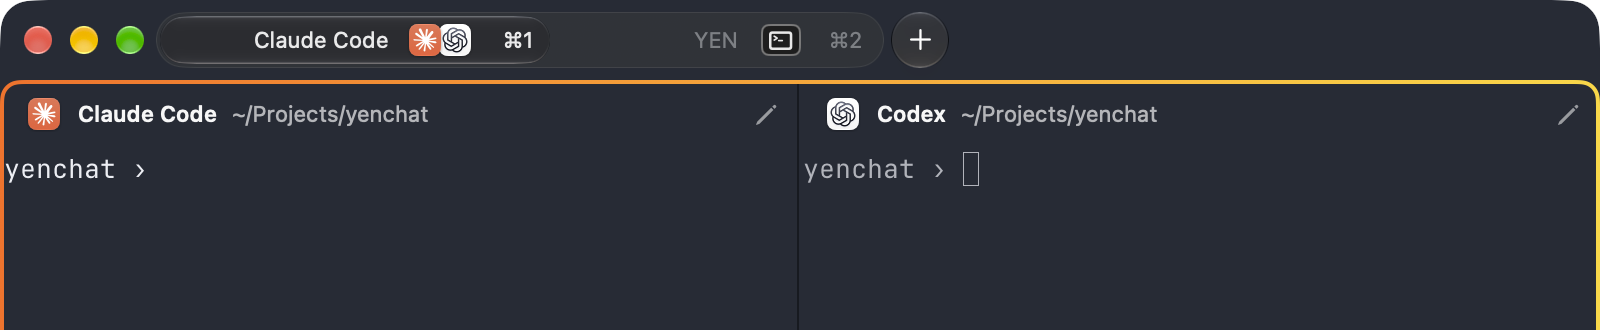
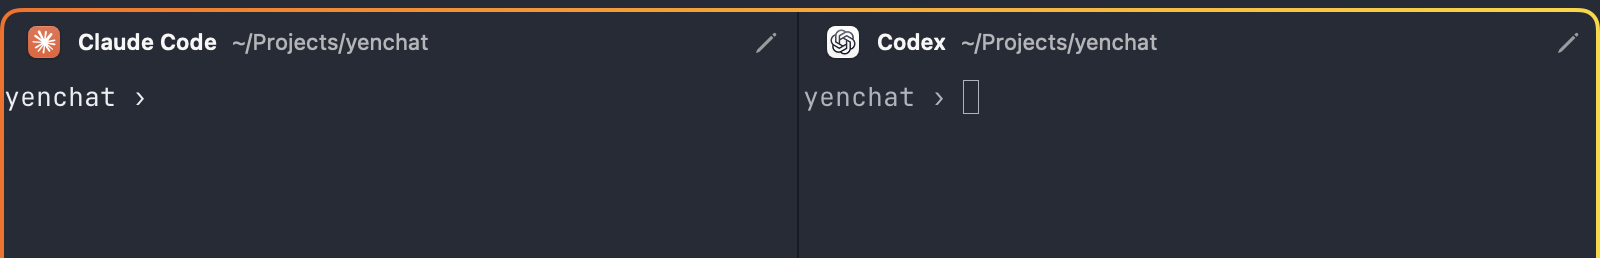
Lead horizontal tabs with the title and show the split count on the right
- Replace the stacked pane icons with a trailing split count, shown only when a tab has splits.
- Hide the Cmd + 1-9 labels until Command alone is held, then swap them in for the count.
- Mute the selected pill to a theme-tinted fill with a hairline edge and dim unselected titles.
- Update the manual, llms.txt and owner docs, and crop the old tab strip from the split-headers image.

diff --git a/yen-terminal/overlays/macos/Sources/Features/Terminal/WorkspaceTabAccessory.swift b/yen-terminal/overlays/macos/Sources/Features/Terminal/WorkspaceTabAccessory.swift
@@ -1,70 +1,94 @@
 import AppKit
+import Combine
 
 /// AppKit moves each window's accessory between tab buttons when a group changes.
-/// Keep the icon host with its window and let the native button own all input.
+/// The title leads the tab and the split count trails it. Holding Command swaps
+/// the count for the native tab shortcut. The native button owns all input.
 final class WorkspaceTabAccessory: NSStackView {
-    private var icons: PaneTabIconAccessory?
+    private var splitCount: PaneTabIconAccessory?
     private weak var tabWindow: NSWindow?
+    private weak var alignedTitle: NSStackView?
     private var leadingInset: NSLayoutConstraint?
     private let selection = WorkspaceTabHighlight()
     private weak var observedGroup: NSWindowTabGroup?
     private var selectionObservation: NSKeyValueObservation?
+    private var revealObservation: AnyCancellable?
+    private var isNarrow = false
+    private var isRevealed = false
 
-    func install(_ icons: PaneTabIconAccessory, for window: NSWindow) {
-        selection.onWidthChange = { [weak icons] width in
-            // At the native minimum tab width, give the title the icon's space.
-            icons?.isHidden = width > 0 && width < 150
+    /// The engine's key-equivalent label, the only text field in this stack.
+    private var shortcutLabel: NSTextField? {
+        arrangedSubviews.lazy.compactMap { $0 as? NSTextField }.first
+    }
+
+    func install(_ splitCount: PaneTabIconAccessory, for window: NSWindow) {
+        selection.onWidthChange = { [weak self] width in
+            // At the native minimum tab width, give the title the count's space.
+            self?.isNarrow = width > 0 && width < 150
+            self?.updateTrailingContent()
         }
-        self.icons = icons
+        self.splitCount = splitCount
         tabWindow = window
-        placeIcons()
+        if splitCount.superview !== self {
+            splitCount.removeFromSuperview()
+            let index = shortcutLabel.flatMap { arrangedSubviews.firstIndex(of: $0) } ?? arrangedSubviews.count
+            insertArrangedSubview(splitCount, at: index)
+        }
+        revealObservation = TabShortcutReveal.shared.$isRevealed
+            .removeDuplicates()
+            // `@Published` emits before it stores, so use the emitted value.
+            .sink { [weak self] revealed in
+                self?.isRevealed = revealed
+                self?.updateTrailingContent()
+            }
+        alignTitle()
     }
 
     override func viewDidMoveToWindow() {
         super.viewDidMoveToWindow()
-        placeIcons()
+        alignTitle()
     }
 
     override func layout() {
         super.layout()
-        placeIcons()
+        alignTitle()
     }
 
-    private func placeIcons() {
-        guard let icons else { return }
+    private func updateTrailingContent() {
+        if let shortcutLabel, shortcutLabel.isHidden == isRevealed { shortcutLabel.isHidden = !isRevealed }
+        let hidesCount = isRevealed || isNarrow
+        if let splitCount, splitCount.isHidden != hidesCount { splitCount.isHidden = hidesCount }
+    }
+
+    private func alignTitle() {
+        updateTrailingContent()
         let isTitlebar = tabWindow is TitlebarTabsTahoeTerminalWindow || tabWindow is TitlebarTabsVenturaTerminalWindow
         guard isTitlebar, let content = superview as? NSStackView,
               let title = content.views(in: .center).first as? NSStackView,
               title.identifier?.rawValue == "_titleContainerView" else {
-            // Other AppKit layouts keep the pane icons in the standard accessory.
-            if icons.superview !== self {
-                selection.removeFromSuperview()
-                selectionObservation = nil
-                observedGroup = nil
-                leadingInset?.isActive = false
-                icons.isHidden = false
-                icons.removeFromSuperview()
-                insertArrangedSubview(icons, at: 0)
-            }
+            // Other AppKit layouts keep their native title placement.
+            selection.removeFromSuperview()
+            selectionObservation = nil
+            observedGroup = nil
+            leadingInset?.isActive = false
+            alignedTitle = nil
             return
         }
 
         updateSelection(in: content)
-        guard !title.views(in: .center).contains(icons) else { return }
+        guard alignedTitle !== title || leadingInset?.isActive != true else { return }
         leadingInset?.isActive = false
-        icons.removeFromSuperview()
-        // Put the native close control beside the shortcut to free the leading margin.
+        // Put the native close control beside the trailing content to free the leading margin.
         if let close = content.views(in: .leading).first(where: { $0.identifier?.rawValue == "_closeButton" }) {
             content.removeView(close)
             content.insertView(close, at: 0, in: .trailing)
         }
-        title.insertView(icons, at: 0, in: .center)
-        title.setCustomSpacing(8, after: icons)
-        // Yield to truncation and native overflow in narrow windows.
+        // Lead with the title. Yield to truncation and native overflow in narrow windows.
         let inset = title.leadingAnchor.constraint(equalTo: content.leadingAnchor, constant: 12)
         inset.priority = .defaultHigh
         inset.isActive = true
         leadingInset = inset
+        alignedTitle = title
         updateTitleAppearance()
     }
 
@@ -94,12 +118,38 @@ final class WorkspaceTabAccessory: NSStackView {
         guard let tabWindow else { return }
         let selected = tabWindow.tabGroup?.selectedWindow === tabWindow
         selection.isHidden = !selected
-        guard let title = icons?.superview as? NSStackView, title !== self,
-              let label = title.views(in: .center).first(where: { $0 is NSTextField }) as? NSTextField else { return }
+        guard let label = alignedTitle?.views(in: .center).first(where: { $0 is NSTextField }) as? NSTextField else { return }
         let font = (tabWindow as? TerminalWindow)?.titlebarFont ?? NSFont.systemFont(ofSize: NSFont.systemFontSize, weight: .medium)
         if label.font != font { label.font = font }
-        let color = NSColor.labelColor
+        // The selected pill is muted, so the title weight of the focus comes from its text.
+        let color: NSColor = selected ? .labelColor : .secondaryLabelColor
         if label.textColor != color { label.textColor = color }
+    }
+}
+
+/// Command alone reveals every tab's shortcut; any other modifier or leaving the
+/// app hides them again, so a missed key-up cannot leave them on screen.
+@MainActor
+final class TabShortcutReveal: ObservableObject {
+    static let shared = TabShortcutReveal()
+
+    @Published private(set) var isRevealed = false
+
+    private var monitor: Any?
+    private var resignObservation: AnyCancellable?
+
+    private init() {
+        monitor = NSEvent.addLocalMonitorForEvents(matching: .flagsChanged) { event in
+            MainActor.assumeIsolated { TabShortcutReveal.shared.update(event.modifierFlags) }
+            return event
+        }
+        resignObservation = NotificationCenter.default.publisher(for: NSApplication.didResignActiveNotification)
+            .sink { _ in MainActor.assumeIsolated { TabShortcutReveal.shared.update([]) } }
+    }
+
+    func update(_ flags: NSEvent.ModifierFlags) {
+        let revealed = flags.intersection([.command, .shift, .option, .control, .function]) == .command
+        if isRevealed != revealed { isRevealed = revealed }
     }
 }
 
@@ -115,8 +165,14 @@ private final class WorkspaceTabHighlight: NSView {
     override func hitTest(_ point: NSPoint) -> NSView? { nil }
 
     override func draw(_ dirtyRect: NSRect) {
-        let shape = NSBezierPath(roundedRect: bounds, xRadius: bounds.height / 2, yRadius: bounds.height / 2)
-        NSColor.labelColor.withAlphaComponent(0.20).setFill()
+        // A low-contrast tint of the theme's own label color over the themed titlebar,
+        // with a hairline edge so the pill reads in light and dark themes alike.
+        let rect = bounds.insetBy(dx: 0.5, dy: 0.5)
+        let shape = NSBezierPath(roundedRect: rect, xRadius: rect.height / 2, yRadius: rect.height / 2)
+        NSColor.labelColor.withAlphaComponent(0.09).setFill()
         shape.fill()
+        NSColor.labelColor.withAlphaComponent(0.10).setStroke()
+        shape.lineWidth = 1
+        shape.stroke()
     }
 }

diff --git a/yen-terminal/overlays/macos/Tests/Terminal/TerminalChromeAppearanceTests.swift b/yen-terminal/overlays/macos/Tests/Terminal/TerminalChromeAppearanceTests.swift
@@ -67,7 +67,7 @@ struct TerminalChromeAppearanceTests {
     }
 
     @available(macOS 27, *)
-    @Test func horizontalTabKeepsItsPaneIconBeforeItsTitleWhenSelectionChanges() async throws {
+    @Test func horizontalTabLeadsWithItsTitleAndRevealsItsShortcutOnlyWithCommand() async throws {
         let groupID = UUID().uuidString
         let nib = try #require(NSNib(nibNamed: "TerminalTabsTitlebarTahoe", bundle: Bundle(for: TerminalWindow.self)))
         let windows = try ["Atlas", "Studio"].map { title in
@@ -80,16 +80,19 @@ struct TerminalChromeAppearanceTests {
             window.title = title
             return window
         }
-        defer { windows.forEach { $0.close() } }
-        let icons = try windows.map { window in
+        defer {
+            TabShortcutReveal.shared.update([])
+            windows.forEach { $0.close() }
+        }
+        let counts = try windows.map { window in
             let accessory = try #require(window.tab.accessoryView as? WorkspaceTabAccessory)
-            let host = PaneTabIconAccessory(rootView: PaneTabIcons(surfaces: []))
-            host.widthAnchor.constraint(equalToConstant: 20).isActive = true
-            host.heightAnchor.constraint(equalToConstant: 18).isActive = true
+            let host = PaneTabIconAccessory(rootView: PaneTabSplitCount(count: 2))
             accessory.install(host, for: window)
             return host
         }
         windows[0].addTabbedWindow(windows[1], ordered: .above)
+        windows[0].keyEquivalent = "⌘1"
+        windows[1].keyEquivalent = "⌘2"
         let group = try #require(windows[0].tabGroup)
         for selected in windows {
             group.selectedWindow = selected
@@ -105,13 +108,27 @@ struct TerminalChromeAppearanceTests {
             #expect(abs(track.midY - trafficLight.midY) <= 1, "Tab bar \(track) and close button \(trafficLight)")
             let labels = root.descendants(withClassName: "NSTextField").compactMap { $0 as? NSTextField }
             for (index, window) in windows.enumerated() {
-                let icon = icons[index]
+                let count = counts[index]
                 let title = try #require(labels.first { $0.stringValue == window.title && $0.firstSuperview(withClassName: "NSTabButton") != nil })
-                #expect(icon.window === title.window)
-                let iconFrame = icon.convert(icon.bounds, to: root)
+                let shortcut = try #require(labels.first { $0.stringValue.hasPrefix("⌘\(index + 1)") })
+                #expect(count.window === title.window)
+                #expect(!count.isHidden && shortcut.isHidden, "Tab \(window.title) shows its count, not its shortcut")
+                let countFrame = count.convert(count.bounds, to: root)
                 let titleFrame = title.convert(title.bounds, to: root)
-                #expect(iconFrame.maxX < titleFrame.minX, "Icon \(iconFrame), title \(titleFrame), hidden \(icon.isHidden), tab \(window.title)")
+                #expect(titleFrame.maxX < countFrame.minX, "Title \(titleFrame), count \(countFrame), tab \(window.title)")
+                #expect(title.textColor == (window === selected ? NSColor.labelColor : NSColor.secondaryLabelColor))
             }
+
+            TabShortcutReveal.shared.update(.command)
+            root.layoutSubtreeIfNeeded()
+            for (index, count) in counts.enumerated() {
+                let shortcut = try #require(labels.first { $0.stringValue.hasPrefix("⌘\(index + 1)") })
+                #expect(count.isHidden && !shortcut.isHidden, "Command swaps tab \(index + 1)'s count for its shortcut")
+            }
+            TabShortcutReveal.shared.update([.command, .shift])
+            #expect(!TabShortcutReveal.shared.isRevealed, "Another modifier hides the shortcuts")
+            TabShortcutReveal.shared.update([])
+            #expect(counts.allSatisfy { !$0.isHidden })
         }
     }
 

diff --git a/yen-terminal/overlays/macos/Sources/Features/Splits/PaneActivity.swift b/yen-terminal/overlays/macos/Sources/Features/Splits/PaneActivity.swift
@@ -112,50 +112,41 @@ struct PaneActivityIcon: View {
     }
 }
 
-struct PaneTabIcons: View {
-    private static let visibleLimit = 3
-    private let surfaces: [YEN.SurfaceView]
-    private let count: Int
-
-    init(surfaces: [YEN.SurfaceView]) {
-        count = surfaces.count
-        self.surfaces = Array(surfaces.prefix(Self.visibleLimit))
-    }
-
-    func showsSamePanes(as other: Self) -> Bool {
-        count == other.count && surfaces.elementsEqual(other.surfaces, by: { $0 === $1 })
-    }
+/// The trailing split count on a horizontal tab. A tab with one pane shows nothing.
+struct PaneTabSplitCount: View {
+    let count: Int
 
     var body: some View {
-        HStack(spacing: 3) {
-            HStack(spacing: -11) {
-                ForEach(Array(surfaces.enumerated()), id: \.element.id) { index, surface in
-                    PaneActivityReader(surface: surface) { PaneActivityIcon(activity: $0) }
-                        .zIndex(Double(surfaces.count - index))
-                }
+        if count > 1 {
+            HStack(spacing: 3) {
+                Image(systemName: "rectangle.split.2x1")
+                    .imageScale(.small)
+                Text(count, format: .number)
+                    .monospacedDigit()
             }
-            if count > surfaces.count {
-                Text("+\(count - surfaces.count)").font(.caption2.monospacedDigit())
-            }
+            .font(.system(size: NSFont.smallSystemFontSize))
+            .foregroundStyle(.secondary)
+            .fixedSize()
+            .accessibilityElement(children: .ignore)
+            .accessibilityLabel("\(count) panes")
+            .help("\(count) panes")
         }
-        .fixedSize()
-        .accessibilityElement(children: .combine)
-        .help(count == 1 ? "1 pane" : "\(count) panes")
     }
 }
 
-/// The host belongs to the native tab's existing accessory stack. Let mouse clicks
-/// through to AppKit so selecting or dragging a tab by its icons still works.
-final class PaneTabIconAccessory: NSHostingView<PaneTabIcons> {
+/// Hosts the split count in the native tab's accessory stack. The name predates the
+/// count and stays because the engine patch calls `install`. Let mouse clicks
+/// through to AppKit so selecting or dragging a tab still works.
+final class PaneTabIconAccessory: NSHostingView<PaneTabSplitCount> {
     private var observation: AnyCancellable?
 
     static func install(for controller: TerminalController, in window: NSWindow) {
         guard let stack = window.tab.accessoryView as? WorkspaceTabAccessory else { return }
-        let host = PaneTabIconAccessory(rootView: PaneTabIcons(surfaces: []))
+        let host = PaneTabIconAccessory(rootView: PaneTabSplitCount(count: 0))
         stack.install(host, for: window)
-        host.observation = controller.$surfaceTree.map { PaneTabIcons(surfaces: $0.root?.leaves() ?? []) }
-            .removeDuplicates { $0.showsSamePanes(as: $1) }
-            .sink { [weak host] in host?.rootView = $0 }
+        host.observation = controller.$surfaceTree.map { $0.root?.leaves().count ?? 0 }
+            .removeDuplicates()
+            .sink { [weak host] in host?.rootView = PaneTabSplitCount(count: $0) }
     }
 
     override func hitTest(_ point: NSPoint) -> NSView? { nil }

diff --git a/app/docs/docs-client.tsx b/app/docs/docs-client.tsx
@@ -864,16 +864,17 @@ function SplitPaneLabelsSection() {
 				or zoomed panes.
 			</p>
 			<p className="text-body">
-				Horizontal tabs show up to three pane icons and a count for additional
-				panes. The icons follow the foreground tool or terminal title. When a
-				tab gets narrow, the icons hide to leave room for its name.
+				Horizontal tabs show the name on the left and, for a tab with splits,
+				its pane count on the right. Hold Command to see each tab&apos;s Cmd +
+				1-9 shortcut. When a tab gets narrow, the count hides to leave room for
+				its name.
 			</p>
 			<figure>
 				<Image
 					src="/doc-images/split-headers.png"
-					alt="Claude Code and Codex in adjacent panes. Each pane has its own icon and title, and both icons appear together in the selected tab."
+					alt="Claude Code and Codex in adjacent panes. Each pane header shows its own icon and title."
 					width={1600}
-					height={330}
+					height={258}
 					sizes="(min-width: 768px) 720px, 100vw"
 					className="w-full h-auto"
 				/>

diff --git a/_docs/13-desktop-features.md b/_docs/13-desktop-features.md
@@ -19,8 +19,10 @@ Intentional deltas, not templates for new windows:
 - Standard terminal windows default to native titlebar tabs.
   Horizontal tabs align to the right and expand to the left.
   They prefer 240 points each and compress at the window edge, where AppKit manages overflow.
-  Pane icons lead the title when AppKit exposes its title stack and yield space to the title in narrow tabs.
-  Shortcuts and zoom controls sit at the trailing edge.
+  The title leads each tab when AppKit exposes its title stack.
+  A tab with splits shows its pane count at the trailing edge, and narrow tabs hide the count to keep the title readable.
+  Holding Command alone swaps every count for the tab's `Cmd + 1-9` shortcut; the zoom control also sits at the trailing edge.
+  The selected tab uses a muted pill tinted from the theme's label color, and other titles use the secondary label color.
   An explicit `macos-titlebar-style` overrides either default.
 - Quick Terminal is a non-activating `NSPanel` with its own space and fullscreen policy.
 - Tab Sidebar and the dictation overlay are borderless non-activating panels so the terminal keeps focus; Onboarding floats during first run; Configuration Errors uses an elevated level.
@@ -289,7 +291,6 @@ It uses the pane background and balances the space above and below the icon and 
 Click the header to focus the pane, drag it to a highlighted edge to move it, or click the pencil to rename it.
 The existing Pane Labels preference controls headers and defaults to on.
 Small and zoomed panes preserve terminal space, and the engine drag-handle setting can disable dragging.
-When visible, the pane icons follow layout order and show a count for panes beyond the first three.
 On supported macOS versions, horizontal tabs center vertically in the toolbar and grow left from its right edge.
 After a tab moves to another window, switching between the remaining tabs keeps the strip width stable.
 The icon uses the local foreground executable and falls back to a recognized terminal title or a terminal symbol.

diff --git a/_docs/02-design-system.md b/_docs/02-design-system.md
@@ -27,7 +27,7 @@ Pane gutters use a 4-point inset on each side of a divider.
 AppKit supplies the tab accessory’s trailing margin.
 Headers and panel contents use a 12-point inset.
 Split headers use the system caption for the pane title and directory, with semibold weight for the title.
-The native tab and split header share the same activity icon.
+Split headers show the activity icon; native tabs show only the title and a pane count.
 Never turn palette values into design tokens, and never edit generated upstream theme sources.
 
 ## File Format
